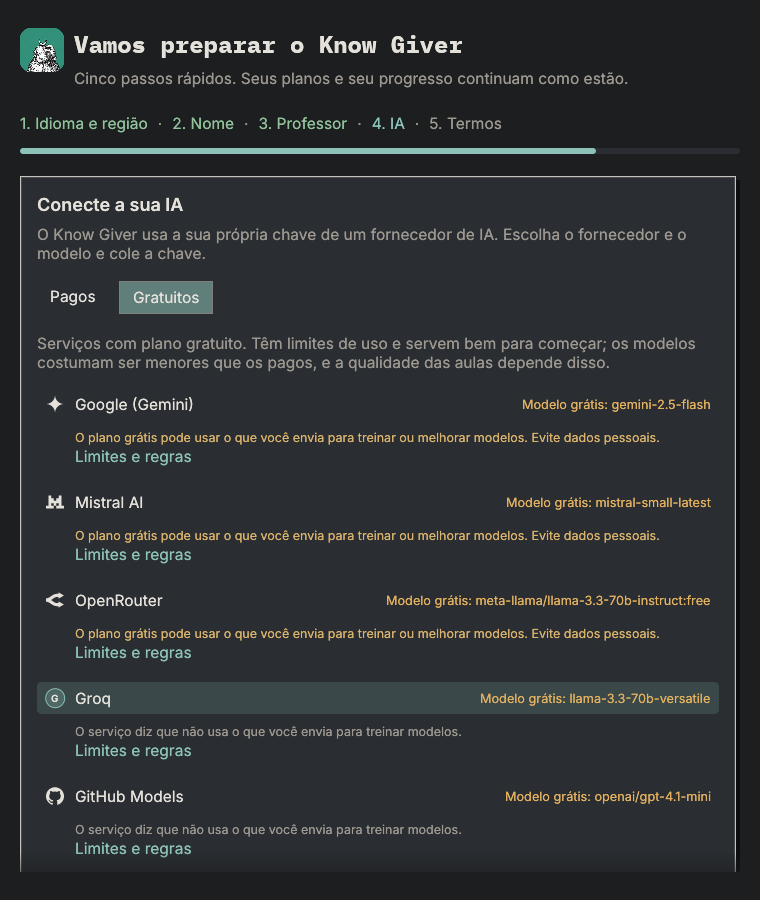
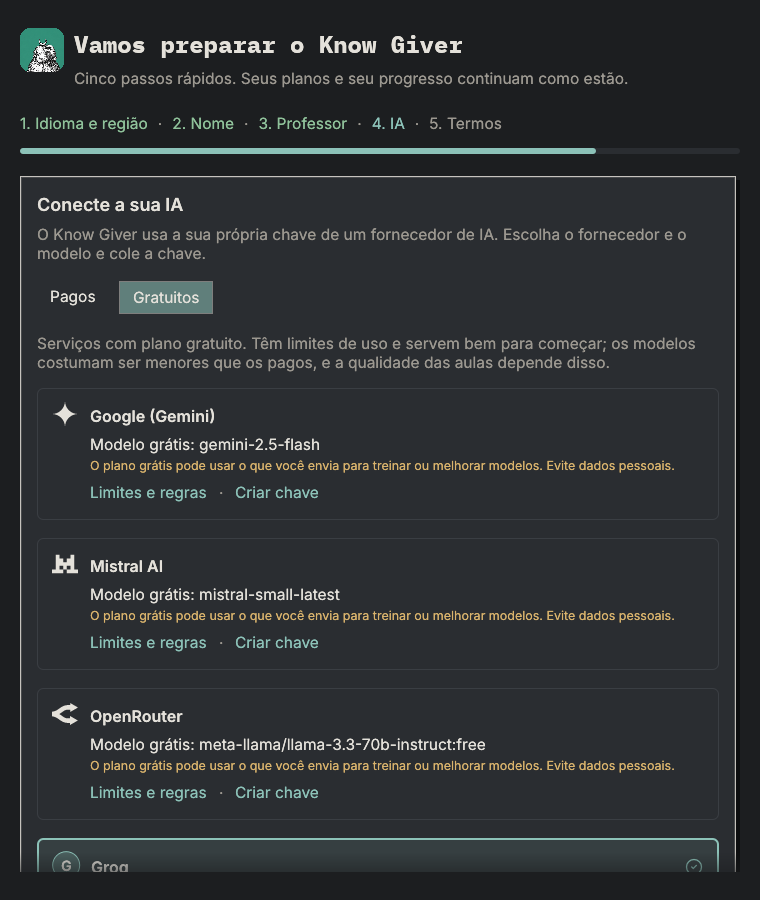
fix(ui): free plans as cards in the AI step

Changed region(s): [[0.0303, 0.5911, 0.9684, 0.9956], [0.0605, 0.4356, 0.9382, 0.5911], [0.8776, 0.5289, 0.9079, 0.56]]

diff --git a/crates/ui/src/screens/setup.rs b/crates/ui/src/screens/setup.rs
@@ -287,7 +287,6 @@ fn paid_recommendations(ui: &mut egui::Ui, setup: &mut SetupUi) {
 /// Services with a free plan where the app is used: the model the plan
 /// covers, what it does with the data, and its rules.
 fn free_plans(ui: &mut egui::Ui, setup: &mut SetupUi) {
-    let p = theme::palette(ui.ctx());
     widgets::hint(ui, &t!("setup.ai.free_hint"));
     ui.add_space(6.0);
     let mainland = setup.mainland();
@@ -296,42 +295,84 @@ fn free_plans(ui: &mut egui::Ui, setup: &mut SetupUi) {
         .filter(|provider| provider.offered(mainland) && provider.free_tier().is_some())
         .collect();
     for provider in free {
-        let Some(tier) = provider.free_tier() else {
-            continue;
-        };
-        let selected = setup.provider.map(|x| x.id) == Some(provider.id);
-        let note = if tier.model.is_empty() {
-            None
-        } else {
-            Some(t!("setup.ai.free_model", model = tier.model).into_owned())
-        };
-        if crate::provider_logo::row(
-            ui,
-            provider,
-            &provider_name(provider),
-            note.as_deref(),
-            selected,
-        )
-        .clicked()
-        {
-            setup.pick_free(provider);
-        }
-        let (text, color) = match tier.data {
-            kg_engine::FreeData::Private => (t!("setup.ai.free_private"), p.success),
-            kg_engine::FreeData::NotForTraining => (t!("setup.ai.free_no_training"), p.muted),
-            kg_engine::FreeData::MayTrain => (t!("setup.ai.free_may_train"), p.warning),
-            kg_engine::FreeData::Unclear => (t!("setup.ai.free_unclear"), p.muted),
-        };
-        // Under the name: what the plan does with the data, and its rules.
-        ui.horizontal(|ui| {
-            ui.add_space(38.0);
-            ui.vertical(|ui| {
-                ui.spacing_mut().item_spacing.y = 2.0;
-                ui.label(RichText::new(text).small().color(color));
-                widgets::link(ui, &t!("setup.ai.free_rules"), tier.url);
-            });
-        });
-        ui.add_space(10.0);
+        free_card(ui, setup, provider);
+        ui.add_space(8.0);
+    }
+}
+
+/// One free plan as a card: the service, the model the plan covers, what it
+/// does with the data and its links, stacked so nothing crowds the right.
+fn free_card(ui: &mut egui::Ui, setup: &mut SetupUi, provider: &'static kg_engine::Provider) {
+    let Some(tier) = provider.free_tier() else {
+        return;
+    };
+    let p = theme::palette(ui.ctx());
+    let selected = setup.provider.map(|x| x.id) == Some(provider.id);
+    let (data, data_color) = match tier.data {
+        kg_engine::FreeData::Private => (t!("setup.ai.free_private"), p.success),
+        kg_engine::FreeData::NotForTraining => (t!("setup.ai.free_no_training"), p.muted),
+        kg_engine::FreeData::MayTrain => (t!("setup.ai.free_may_train"), p.warning),
+        kg_engine::FreeData::Unclear => (t!("setup.ai.free_unclear"), p.muted),
+    };
+    // The click area sits under the card's content, so its links still work.
+    let response = ui
+        .scope_builder(egui::UiBuilder::new().sense(egui::Sense::click()), |ui| {
+            egui::Frame::new()
+                .fill(if selected {
+                    p.accent.gamma_multiply(0.12)
+                } else {
+                    p.surface
+                })
+                .stroke(egui::Stroke::new(
+                    if selected { 2.0 } else { 1.0 },
+                    if selected { p.accent } else { p.border },
+                ))
+                .corner_radius(6.0)
+                .inner_margin(egui::Margin::symmetric(14, 12))
+                .show(ui, |ui| {
+                    ui.set_width(ui.available_width());
+                    ui.horizontal_top(|ui| {
+                        ui.spacing_mut().item_spacing.x = 12.0;
+                        crate::provider_logo::show(ui, provider, 26.0);
+                        ui.vertical(|ui| {
+                            ui.spacing_mut().item_spacing.y = 4.0;
+                            ui.horizontal(|ui| {
+                                ui.label(
+                                    RichText::new(provider_name(provider))
+                                        .family(theme::strong_family())
+                                        .size(16.0),
+                                );
+                                if selected {
+                                    ui.with_layout(
+                                        egui::Layout::right_to_left(egui::Align::Center),
+                                        |ui| {
+                                            ui.add(crate::icons::Icon::Check.image(18.0, p.accent));
+                                        },
+                                    );
+                                }
+                            });
+                            if !tier.model.is_empty() {
+                                ui.label(
+                                    RichText::new(t!("setup.ai.free_model", model = tier.model))
+                                        .color(p.text),
+                                );
+                            }
+                            ui.label(RichText::new(data).small().color(data_color));
+                            ui.horizontal(|ui| {
+                                widgets::link(ui, &t!("setup.ai.free_rules"), tier.url);
+                                if !provider.key_url.is_empty() && provider.key_url != tier.url {
+                                    ui.label(RichText::new("·").color(p.muted));
+                                    widgets::link(ui, &t!("setup.ai.get_key"), provider.key_url);
+                                }
+                            });
+                        });
+                    });
+                });
+        })
+        .response
+        .on_hover_cursor(egui::CursorIcon::PointingHand);
+    if response.clicked() {
+        setup.pick_free(provider);
     }
 }
 

diff --git a/CHANGELOG.md b/CHANGELOG.md
@@ -23,6 +23,8 @@ All notable changes to Know Giver. Format based on
 
 ### Changed
 - The update bar is taller, with the version on the left and roomier actions on the right.
+- The Free tab shows each plan as a card: service, free model, what it does with the data,
+  and links to its rules and to create a key, stacked instead of pushed to the right.
 - The region hint says the region also sets the way of studying.
 
 ## [0.33.1] - 2026-10-30
